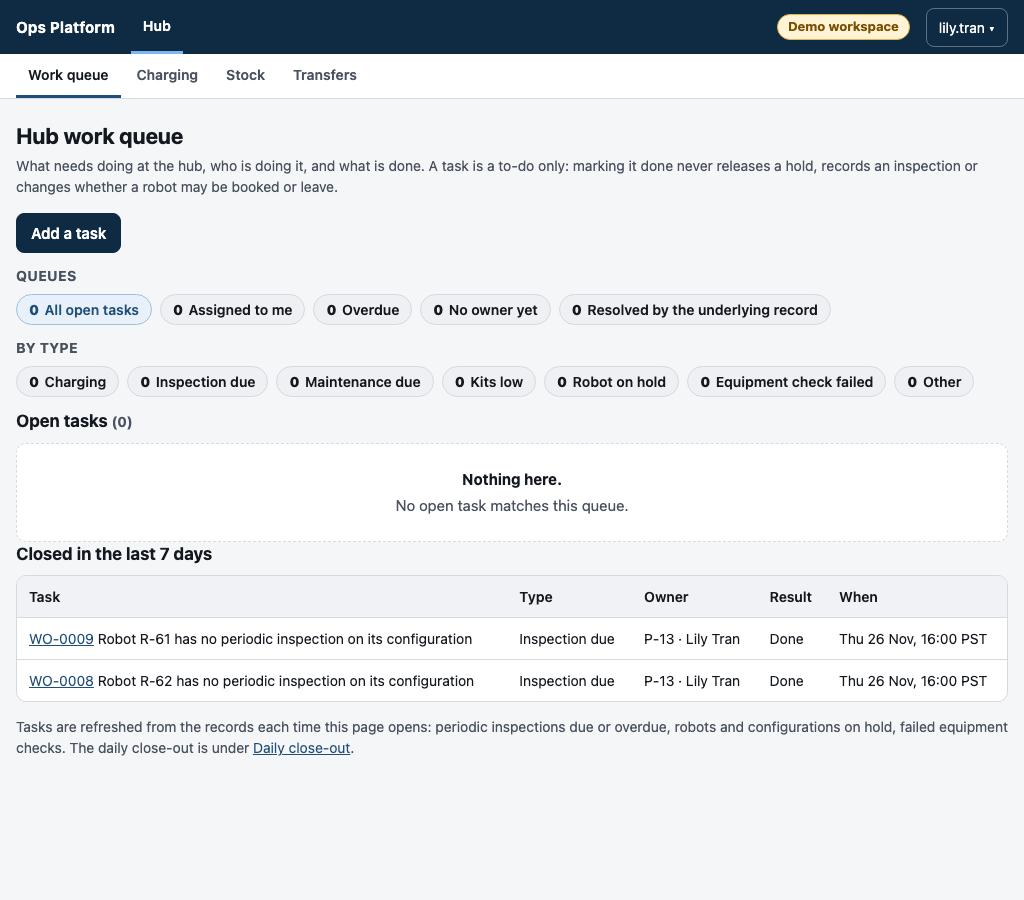
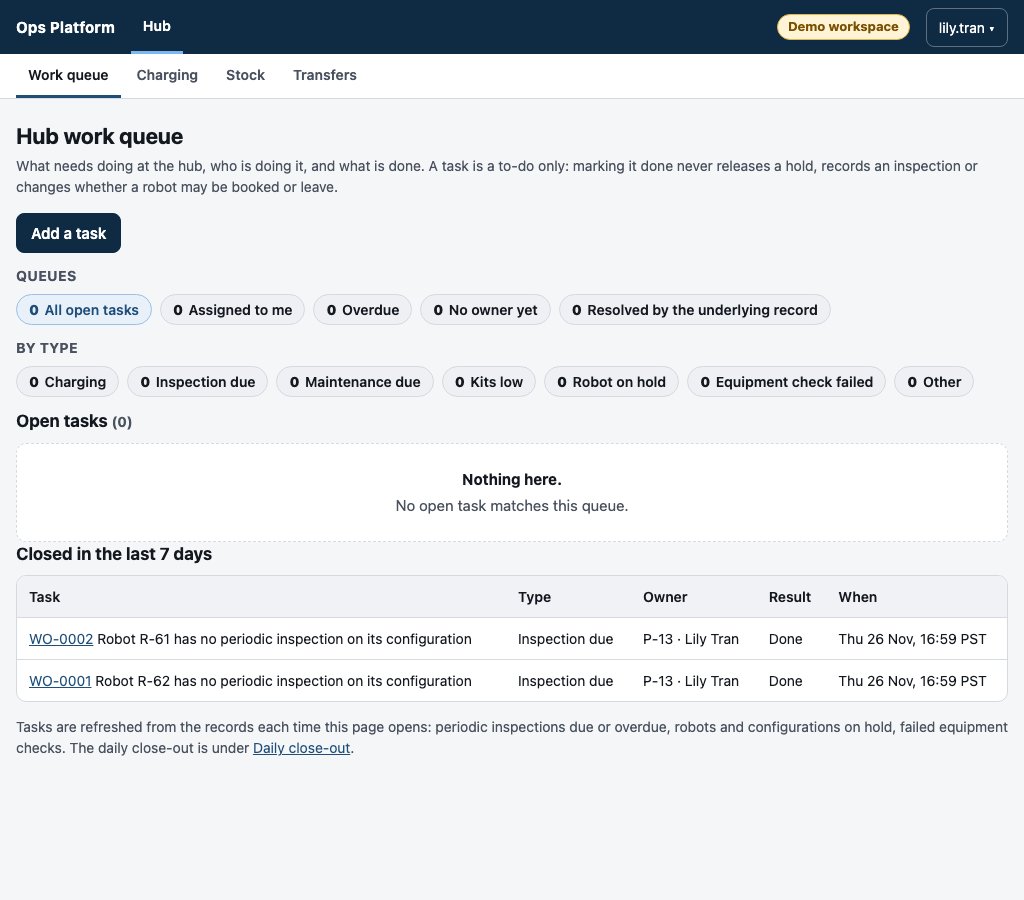
Release docs for v2.0.0: final figures, skip reasons, EM approval, README status

diff --git a/docs/evidence/06_lifecycle.md b/docs/evidence/06_lifecycle.md
@@ -9,9 +9,9 @@ not by independent users. No passwords are used or stored: each browser gets a t
 
 ## Run
 
-- Date: 2026-11-26 16:01 PST
-- Code: branch v2/06-e2e at a0af379 plus the files of the commit that adds this evidence
-- Visit: V-0068 at H-601, 2026-11-26 18:25-19:25 (America/Los_Angeles)
+- Date: 2026-11-26 17:00 PST
+- Code: branch v2/06-e2e at d58f13a plus the files of the commit that adds this evidence
+- Visit: V-0017 at H-601, 2026-11-26 19:25-20:25 (America/Los_Angeles)
 - Browser: Chromium 159.0.8154.6 (Playwright), field crew at 375 px, everyone else at 1024 px
 
 ## Base (before step 1)
@@ -27,21 +27,21 @@ Merritt (LM), assessed eligible, approved, two adults consented.
 
 | # | Step | Who (role, width) | How | Identifiers | Audit rows (id `command`) | Reflected on |
 |---|---|---|---|---|---|---|
-| 1 | Robot commissioning: R-61 registered at Oakland, configuration manifest, validation, in service, home-use authorization (spare R-62 the same way) | Kenji Watanabe (engineering lead, 1024); Sam Keller (engineer, 1024) | UI forms /fleet/new/, /fleet/&lt;code&gt;/manifest/, /lifecycle/ (twice), /authorize/ | robots `R-61` (serial SYN-H2-0601) and `R-62` (SYN-H2-0602), home hub OAK | 4711 `fleet.register_robot`<br>4712 `fleet.record_manifest`<br>4713 `fleet.lifecycle.validation`<br>4714 `fleet.lifecycle.in_service`<br>4715 `fleet.grant_base_authorization`<br>4716 `fleet.register_robot`<br>4717 `fleet.record_manifest`<br>4718 `fleet.lifecycle.validation`<br>4719 `fleet.lifecycle.in_service`<br>4720 `fleet.grant_base_authorization` | Robot page /fleet/R-61/: in service<br>Screenshot `06_lifecycle/01_robot_commissioned_1024.png` |
-| 2 | Hub readiness: the hub queue's inspection work orders; periodic inspection of both robots (two qualified inspectors sign); a battery level for R-61; the work orders closed | Jordan Lee (field operator @OAK, 375); Lily Tran (hub technician @OAK, 1024) | UI /hub/, /readiness/robots/&lt;code&gt;/inspection/, /hub/charging/ (Record a battery level), /hub/tasks/&lt;id&gt;/ (Take this task, Close task) | inspections RC-0258, RC-0259; battery reading 92 % (R-61) | 4721 `hub.derive_task`<br>4722 `hub.derive_task`<br>4723 `fleet.submit_inspection`<br>4724 `fleet.submit_inspection`<br>4725 `hub.record_soc_reading`<br>4726 `hub.assign_task`<br>4727 `hub.start_task`<br>4728 `hub.complete_task`<br>4729 `hub.assign_task`<br>4730 `hub.start_task`<br>4731 `hub.complete_task` | Hub /hub/: the two 'has no periodic inspection' work orders showed 'Resolved by the underlying record' and were closed by the hub technician: '0 All open tasks'<br>Briefing: 'No robot at Oakland hub is unavailable'; R-61 has a battery level, R-62 not<br>Screenshot `06_lifecycle/02_hub_ready_1024.png` |
-| 3 | Visit booking at home H-601, 2026-11-26 18:25-19:25 (America/Los_Angeles) | Dana Ortiz (ops lead, 1024) | UI form /planning/book/ (Request visit) | visit `V-0068` (requested) | 4732 `planning.request_visit` | Board /planning/board/?day=2026-11-26: V-0068 at Oakland, Blocked (no robot, crew or van yet) |
-| 4 | Resource planning: Review options, save the best option (R-61, crew P-11 Jordan Lee + P-12 Amara Okafor, VAN-1), confirm the visit | Dana Ortiz (ops lead, 1024) | UI /planning/visits/V-0068/?review=1 (Save plan), Confirm visit | visit `V-0068` revision id 135, zone LM, travel 20/20 min (matrix DT-LM) | 4733 `planning.plan_visit`<br>4734 `planning.confirm_visit` | Board: V-0068 status available with R-61, Jordan Lee and Amara Okafor, VAN-1<br>Today /ops/: V-0068 robot R-61 listed for today<br>Screenshot `06_lifecycle/04_plan_review_1024.png` |
-| 5 | Departure authorization: pre-departure inspection, equipment and battery checks (crew); recovery plan and Request approval to leave (ops lead) | Jordan Lee (field operator @OAK, 375); Dana Ortiz (ops lead, 1024) | UI forms /readiness/visits/V-0068/inspection/ and /readiness/visits/V-0068/ | pre-departure inspection RC-0260; authorization `DA-0029`, valid until 17:30 | 4735 `fleet.submit_inspection`<br>4736 `readiness.record_evidence`<br>4737 `readiness.record_evidence`<br>4738 `readiness.record_evidence`<br>4739 `readiness.record_recovery_plan`<br>4740 `readiness.authorize_departure` | Today: 'V-0068 ... Approved to leave by dana.ortiz ... valid until ...'<br>Briefing: '1 other visit today has no open problem ... That is not permission to leave.'<br>Screenshot `06_lifecycle/05_approved_to_leave_1024.png` |
-| 6 | Custody transfer: departure recorded (custody #1 hub -> vehicle, administrative), then verified by the crew second | Jordan Lee (crew lead, 375) | UI: My visits, Record departure (readiness page); run page Next step verification (offline queue) | departure event id 26; run `EX-0021`; ledger [('ordinary', 1, 'custody.verify', 'confirmed')] | 4741 `readiness.record_departure`<br>4742 `execution.verify_custody` | Briefing: '1 robot out on a visit' (R-61)<br>Board: V-0068 Departed |
-| 7 | Site arrival, then custody handover vehicle -> site (receiver from the crew) | Jordan Lee (crew lead, 375) | UI run page Next step: arrival (offline queue), handover (online-only form) | run `EX-0021` | 4743 `execution.record_trip_event`<br>4744 `execution.transfer_custody` | Screenshot `06_lifecycle/07_on_site_375.png` |
-| 8 | Site check (Go: 2 adults, both items ok, 2 valid consents) and session start | Jordan Lee (crew lead, 375) | UI run page Next step: site check (offline queue), Start the session (online-only form) | run `EX-0021` | 4745 `execution.record_site_check`<br>4746 `execution.record_session_event` | Phone: connection pill '✓ Up to date'; Next step 'Stop the session when the work is done' |
+| 1 | Robot commissioning: R-61 registered at Oakland, configuration manifest, validation, in service, home-use authorization (spare R-62 the same way) | Kenji Watanabe (engineering lead, 1024); Sam Keller (engineer, 1024) | UI forms /fleet/new/, /fleet/&lt;code&gt;/manifest/, /lifecycle/ (twice), /authorize/ | robots `R-61` (serial SYN-H2-0601) and `R-62` (SYN-H2-0602), home hub OAK | 1271 `fleet.register_robot`<br>1272 `fleet.record_manifest`<br>1273 `fleet.lifecycle.validation`<br>1274 `fleet.lifecycle.in_service`<br>1275 `fleet.grant_base_authorization`<br>1276 `fleet.register_robot`<br>1277 `fleet.record_manifest`<br>1278 `fleet.lifecycle.validation`<br>1279 `fleet.lifecycle.in_service`<br>1280 `fleet.grant_base_authorization` | Robot page /fleet/R-61/: in service<br>Screenshot `06_lifecycle/01_robot_commissioned_1024.png` |
+| 2 | Hub readiness: the hub queue's inspection work orders; periodic inspection of both robots (two qualified inspectors sign); a battery level for R-61; the work orders closed | Jordan Lee (field operator @OAK, 375); Lily Tran (hub technician @OAK, 1024) | UI /hub/, /readiness/robots/&lt;code&gt;/inspection/, /hub/charging/ (Record a battery level), /hub/tasks/&lt;id&gt;/ (Take this task, Close task) | inspections RC-0065, RC-0066; battery reading 92 % (R-61) | 1281 `hub.derive_task`<br>1282 `hub.derive_task`<br>1283 `fleet.submit_inspection`<br>1284 `fleet.submit_inspection`<br>1285 `hub.record_soc_reading`<br>1286 `hub.assign_task`<br>1287 `hub.start_task`<br>1288 `hub.complete_task`<br>1289 `hub.assign_task`<br>1290 `hub.start_task`<br>1291 `hub.complete_task` | Hub /hub/: the two 'has no periodic inspection' work orders showed 'Resolved by the underlying record' and were closed by the hub technician: '0 All open tasks'<br>Briefing: 'No robot at Oakland hub is unavailable'; R-61 has a battery level, R-62 not<br>Screenshot `06_lifecycle/02_hub_ready_1024.png` |
+| 3 | Visit booking at home H-601, 2026-11-26 19:25-20:25 (America/Los_Angeles) | Dana Ortiz (ops lead, 1024) | UI form /planning/book/ (Request visit) | visit `V-0017` (requested) | 1292 `planning.request_visit` | Board /planning/board/?day=2026-11-26: V-0017 at Oakland, Blocked (no robot, crew or van yet) |
+| 4 | Resource planning: Review options, save the best option (R-61, crew P-11 Jordan Lee + P-12 Amara Okafor, VAN-1), confirm the visit | Dana Ortiz (ops lead, 1024) | UI /planning/visits/V-0017/?review=1 (Save plan), Confirm visit | visit `V-0017` revision id 34, zone LM, travel 20/20 min (matrix DT-LM) | 1293 `planning.plan_visit`<br>1294 `planning.confirm_visit` | Board: V-0017 status available with R-61, Jordan Lee and Amara Okafor, VAN-1<br>Today /ops/: V-0017 robot R-61 listed for today<br>Screenshot `06_lifecycle/04_plan_review_1024.png` |
+| 5 | Departure authorization: pre-departure inspection, equipment and battery checks (crew); recovery plan and Request approval to leave (ops lead) | Jordan Lee (field operator @OAK, 375); Dana Ortiz (ops lead, 1024) | UI forms /readiness/visits/V-0017/inspection/ and /readiness/visits/V-0017/ | pre-departure inspection RC-0067; authorization `DA-0017`, valid until 18:29 | 1295 `fleet.submit_inspection`<br>1296 `readiness.record_evidence`<br>1297 `readiness.record_evidence`<br>1298 `readiness.record_evidence`<br>1299 `readiness.record_recovery_plan`<br>1300 `readiness.authorize_departure` | Today: 'V-0017 ... Approved to leave by dana.ortiz ... valid until ...'<br>Briefing: '1 other visit today has no open problem ... That is not permission to leave.'<br>Screenshot `06_lifecycle/05_approved_to_leave_1024.png` |
+| 6 | Custody transfer: departure recorded (custody #1 hub -> vehicle, administrative), then verified by the crew second | Jordan Lee (crew lead, 375) | UI: My visits, Record departure (readiness page); run page Next step verification (offline queue) | departure event id 17; run `EX-0017`; ledger [('ordinary', 1, 'custody.verify', 'confirmed')] | 1301 `readiness.record_departure`<br>1302 `execution.verify_custody` | Briefing: '1 robot out on a visit' (R-61)<br>Board: V-0017 Departed |
+| 7 | Site arrival, then custody handover vehicle -> site (receiver from the crew) | Jordan Lee (crew lead, 375) | UI run page Next step: arrival (offline queue), handover (online-only form) | run `EX-0017` | 1303 `execution.record_trip_event`<br>1304 `execution.transfer_custody` | Screenshot `06_lifecycle/07_on_site_375.png` |
+| 8 | Site check (Go: 2 adults, both items ok, 2 valid consents) and session start | Jordan Lee (crew lead, 375) | UI run page Next step: site check (offline queue), Start the session (online-only form) | run `EX-0017` | 1305 `execution.record_site_check`<br>1306 `execution.record_session_event` | Phone: connection pill '✓ Up to date'; Next step 'Stop the session when the work is done' |
 | 9 | Network loss (context.set_offline): an observation note (ordinary) and an interruption (protective) recorded on the phone | Jordan Lee (crew lead, 375) | UI offline: session form (Observation), Open interruption | 2 steps saved on the phone (IndexedDB), none on the server | none (nothing reached the server) | Phone: pill '○ Offline'; banner 'Robot must not operate ... saved on this phone, not yet confirmed'<br>Server: no interruption, no ledger row, no audit row while offline<br>Screenshot `06_lifecycle/09_offline_protective_saved_375.png` |
-| 10 | Reconnection: the phone's sync sends the protective step first; the server confirms each step once, in order (queue reconciled); the session is paused by the interruption | Jordan Lee (crew lead, 375) | UI: the run page's own sync on reconnect (POST /api/field/sync) | interruption `IN-0014`; ledger [('protective', None, 'interruption.open', 'confirmed'), ('ordinary', 4, 'session.observation', 'confirmed')] | 4747 `execution.open_interruption`<br>4748 `execution.record_session_event` | Phone: banner 'confirmed by the server ... stays stopped'; first sync batch starts protective<br>Phone: Next step 'Resume or stop the session'<br>Today: 'A visit session was interrupted and is still stopped.' (Resolve the interruption)<br>Briefing: R-61 'Unresolved interruption ... must not operate'; priority 'Review the unresolved interruption on robot R-61.'<br>Run page (ops lead): interruption IN-0014 Open<br>Screenshot `06_lifecycle/10_reconnected_paused_375.png` |
-| 11 | Triage: interruption IN-0014 resolved with a note (resolving does not resume the session) | Elena Vasquez (safety reviewer, 1024) | UI run page /execution/runs/EX-0021/, Interruptions card (Resolve) | interruption `IN-0014` | 4749 `execution.resolve_interruption` | Briefing: no unresolved interruption; R-61 out on a visit again<br>Today: the interruption card is gone<br>Screenshot `06_lifecycle/11_interruption_resolved_1024.png` |
-| 12 | Return: session stopped, robot back in the vehicle, left the home, back at the hub, robot received at the hub (custody #4 vehicle -> hub) | Jordan Lee (crew lead, 375) | UI run page Next step: stop, back to vehicle, trip events (offline queue); hub receipt (online form) | run `EX-0021`; ledger [('protective', None, 'session.stop', 'confirmed'), ('ordinary', 5, 'custody.back_to_vehicle', 'confirmed'), ('ordinary', 6, 'trip.departed_site', 'confirmed'), ('ordinary', 7, 'trip.arrived_hub', 'confirmed')] | 4750 `execution.record_session_event`<br>4751 `execution.transfer_custody`<br>4752 `execution.record_trip_event`<br>4753 `execution.record_trip_event`<br>4754 `execution.transfer_custody` |  |
-| 13 | Post-visit inspection (after the hub receipt) | Jordan Lee (crew lead, 375) | UI form /readiness/visits/V-0068/inspection/ | inspection RC-0261 | 4755 `fleet.submit_inspection` | Phone: Next step 'Reconcile the return' (the ops lead's step)<br>Screenshot `06_lifecycle/13_returned_inspected_375.png` |
-| 14 | Closeout: return reconciliation with the post-visit inspection (reconciled), Close trip | Dana Ortiz (ops lead, 1024) | UI run page /execution/runs/EX-0021/ (Record return reconciliation, Close trip) | run `EX-0021` closed | 4756 `execution.reconcile_return`<br>4757 `execution.close_trip` | Run page: 'Next step: Nothing left to record'<br>Visit dossier: plan r2, evidence, the authorization (local expiry), departure, custody #1-#4 with verification, site check, session, IN-0014 + resolution, return, reconciliation, closed<br>Today: V-0068 no longer open; fleet 2 available, 0 out<br>Screenshot `06_lifecycle/14_trip_closed_1024.png` |
-| 15 | Inter-hub transfer: R-61 refused (its booking has not ended); spare R-62 sent from Oakland and received at South Bay | Lily Tran (hub technician @OAK, 1024); Nora Castillo (hub technician @SJC, 1024) | UI /hub/transfers/ (Send; Receive at SJC) | transfer `TR-0007` (in transit -> received); R-62 home hub SJC | 4758 `fleet.transfer_start`<br>4759 `fleet.start_transfer`<br>4760 `fleet.transfer_receive`<br>4761 `fleet.receive_transfer` | Transfers page (Lily): 'Refused (conflict) Robot R-61 cannot move to hub SJC: it is booked for visit V-0068 until ...'<br>Briefing (all hubs): South Bay hub has 1 robot (R-62, no battery level yet)<br>Audit log /api/audit-events (ops lead): all 51 audit rows of steps 1-15, same commands<br>Screenshot `06_lifecycle/15_transfer_received_1024.png` |
+| 10 | Reconnection: the phone's sync sends the protective step first; the server confirms each step once, in order (queue reconciled); the session is paused by the interruption | Jordan Lee (crew lead, 375) | UI: the run page's own sync on reconnect (POST /api/field/sync) | interruption `IN-0003`; ledger [('protective', None, 'interruption.open', 'confirmed'), ('ordinary', 4, 'session.observation', 'confirmed')] | 1307 `execution.open_interruption`<br>1308 `execution.record_session_event` | Phone: banner 'confirmed by the server ... stays stopped'; first sync batch starts protective<br>Phone: Next step 'Resume or stop the session'<br>Today: 'A visit session was interrupted and is still stopped.' (Resolve the interruption)<br>Briefing: R-61 'Unresolved interruption ... must not operate'; priority 'Review the unresolved interruption on robot R-61.'<br>Run page (ops lead): interruption IN-0003 Open<br>Screenshot `06_lifecycle/10_reconnected_paused_375.png` |
+| 11 | Triage: interruption IN-0003 resolved with a note (resolving does not resume the session) | Elena Vasquez (safety reviewer, 1024) | UI run page /execution/runs/EX-0017/, Interruptions card (Resolve) | interruption `IN-0003` | 1309 `execution.resolve_interruption` | Briefing: no unresolved interruption; R-61 out on a visit again<br>Today: the interruption card is gone<br>Screenshot `06_lifecycle/11_interruption_resolved_1024.png` |
+| 12 | Return: session stopped, robot back in the vehicle, left the home, back at the hub, robot received at the hub (custody #4 vehicle -> hub) | Jordan Lee (crew lead, 375) | UI run page Next step: stop, back to vehicle, trip events (offline queue); hub receipt (online form) | run `EX-0017`; ledger [('protective', None, 'session.stop', 'confirmed'), ('ordinary', 5, 'custody.back_to_vehicle', 'confirmed'), ('ordinary', 6, 'trip.departed_site', 'confirmed'), ('ordinary', 7, 'trip.arrived_hub', 'confirmed')] | 1310 `execution.record_session_event`<br>1311 `execution.transfer_custody`<br>1312 `execution.record_trip_event`<br>1313 `execution.record_trip_event`<br>1314 `execution.transfer_custody` |  |
+| 13 | Post-visit inspection (after the hub receipt) | Jordan Lee (crew lead, 375) | UI form /readiness/visits/V-0017/inspection/ | inspection RC-0068 | 1315 `fleet.submit_inspection` | Phone: Next step 'Reconcile the return' (the ops lead's step)<br>Screenshot `06_lifecycle/13_returned_inspected_375.png` |
+| 14 | Closeout: return reconciliation with the post-visit inspection (reconciled), Close trip | Dana Ortiz (ops lead, 1024) | UI run page /execution/runs/EX-0017/ (Record return reconciliation, Close trip) | run `EX-0017` closed | 1316 `execution.reconcile_return`<br>1317 `execution.close_trip` | Run page: 'Next step: Nothing left to record'<br>Visit dossier: plan r2, evidence, the authorization (local expiry), departure, custody #1-#4 with verification, site check, session, IN-0003 + resolution, return, reconciliation, closed<br>Today: V-0017 no longer open; fleet 2 available, 0 out<br>Screenshot `06_lifecycle/14_trip_closed_1024.png` |
+| 15 | Inter-hub transfer: R-61 refused (its booking has not ended); spare R-62 sent from Oakland and received at South Bay | Lily Tran (hub technician @OAK, 1024); Nora Castillo (hub technician @SJC, 1024) | UI /hub/transfers/ (Send; Receive at SJC) | transfer `TR-0001` (in transit -> received); R-62 home hub SJC | 1318 `fleet.transfer_start`<br>1319 `fleet.start_transfer`<br>1320 `fleet.transfer_receive`<br>1321 `fleet.receive_transfer` | Transfers page (Lily): 'Refused (conflict) Robot R-61 cannot move to hub SJC: it is booked for visit V-0017 until ...'<br>Briefing (all hubs): South Bay hub has 1 robot (R-62, no battery level yet)<br>Audit log /api/audit-events (ops lead): all 51 audit rows of steps 1-15, same commands<br>Screenshot `06_lifecycle/15_transfer_received_1024.png` |
 
 ## Notes
 

diff --git a/docs/release_notes_v2.md b/docs/release_notes_v2.md
@@ -1,7 +1,7 @@
 # Release notes: Fleet Operations Platform v2
 
-**DRAFT: not approved for release.** This document becomes final only after the EM's v2 release approval. Until
-then it authorizes nothing, and the numbers marked `FINAL_CI` are placeholders.
+**v2.0.0, approved for release by the EM on 2026-11-26** (validated application SHA `d58f13a`). This approval covers a
+synthetic robotics operations platform; it is not certification for real-world robot operation.
 
 All data in this project is fictional. No value in the product or the demo is a real robot specification,
 maintenance interval, travel time, price or safety approval. Nothing has been used with real robots, real homes or
@@ -20,11 +20,15 @@ server has not checked.
 
 | | |
 |---|---|
-| Candidate | `FINAL_CI` (commit to be filled in at release) |
+| Version | v2.0.0 |
+| Validated application SHA | `d58f13a` (later commits are documentation only) |
 | Demo | https://web-phase02rc.up.railway.app is the Phase 02 release. The demo link will be updated at release. |
-| Full CI | Latest full run on `v2/phase03`: **2,533 passed** at `81f9d9c`, with one browser-test setup error, since fixed (`3fa3a18`). Final: `FINAL_CI` passed, `FINAL_CI` failed. |
-| Verified synthetic scale | 500 robots, 5 hubs, 5,000 visits (Phase 05, three CI rounds within budget) |
-| Integrated acceptance (contract 15.11, Phase 06) | Pending at the time of writing |
+| Full CI | Run 45920094281 at `d58f13a`: **2,566 passed, 20 skipped, 0 failed** (skips explained below) |
+| Verified synthetic scale | 500 robots, 5 hubs, 5,001 visits; three performance rounds at `d58f13a`, all within budget (45920137597, 45920148983, 45920287628) |
+| Integrated acceptance (Phase 06) | 16/16 gates (15 with evidence + EM release approval); 15-step real-browser lifecycle; `docs/evidence/06_integrated_acceptance.md` |
+| Known unresolved critical/high defects | 0 |
+| Independent operator usability | Unverified |
+| Real-robot deployment | Not validated |
 
 ## What each phase added
 
@@ -131,7 +135,19 @@ not a load test with many users, and not a measurement on hosted infrastructure.
 | 03B closure, `5449acd` | 2,282 passed |
 | 03C closure, `e24c713` | 2,417 passed |
 | Latest full CI on `v2/phase03`, `81f9d9c` | 2,533 passed, one browser-test setup error (fixed in `3fa3a18`) |
-| Release candidate | `FINAL_CI` |
+| Release candidate `d58f13a` (run 45920094281) | 2,566 passed, 20 skipped, 0 failed |
+
+**Why 20 tests are skipped in the main CI job** (none is an unexecuted acceptance gate):
+
+| Count | Tests | Reason | Where they run |
+|---|---|---|---|
+| 9 | `test_operations_perf.py` p95 budgets | marked `perf` | `perf.yml`, three rounds at `d58f13a` |
+| 1 | `test_v2_05_scale.py` 500-robot p95 | marked `perf` | `perf.yml`, three rounds at `d58f13a` |
+| 1 | `test_v2_03b_readiness_perf_repeat.py` | marked `perf`; 03B repeat measurement | run for 03B evidence (`03b_readiness_perf.md`); readiness is also measured in both `perf.yml` suites |
+| 5 | `test_capacity_workbook.py` LibreOffice checks | need LibreOffice | the separate `xlsx` CI job (installs LibreOffice), success |
+| 1 | `test_v2_03d_design_review.py` | screenshot generator, only with `HOP_03D_SHOTS=1` | run to produce `docs/evidence/03d_design_review/` |
+| 2 | `test_operations_ui.py` | parametrized roles for which metrics is 403, asserted by the test above them | n/a (covered) |
+| 1 | `test_s7_ui.py` | legacy guard for a build without `withdraw_hold_policy` | n/a (the function exists) |
 
 The suite runs against a real PostgreSQL 16. It includes direct-SQL bypass attempts as the restricted runtime role,
 concurrency tests in both orders with the waiting transaction observed in `pg_locks`, failure injection on the sync
@@ -210,5 +226,6 @@ endpoint, and real-browser tests of the offline screen with the network cut.
 Every v2 migration is additive and reversible. Before migrating any database, take a backup and rehearse the
 restore, then deploy; `start.sh` runs the migrations before the app serves. New gates (maintenance, stock, zones
 and travel times) do nothing until the owner provisions them. Order of work, activation and rollback:
-`docs/12_v2_phase02_release.md` and `docs/runbook_deploy_backup_rollback.md`. The Phase 03 to 05 upgrade
-rehearsal is part of the integrated acceptance and is pending.
+`docs/12_v2_phase02_release.md` and `docs/runbook_deploy_backup_rollback.md`. The upgrade from
+`v2-phase02-release` was rehearsed in Phase 06 (34 migrations, data counts and fingerprints equal, reverse and
+forward again; backup and restore checked): `docs/evidence/06_install_upgrade_backup.md`.

diff --git a/docs/evidence/06_integrated_acceptance.md b/docs/evidence/06_integrated_acceptance.md
@@ -32,7 +32,7 @@ This package asks the EM for final release approval; until then no `v2.0.0` tag 
 | 13 | Documentation and walkthrough match the implementation | PASS | walkthrough run end to end in a real browser: 94 claims checked, 92 matched, 9 statements corrected; README setup verified; architecture counts checked against the catalog (44 definer functions, 96 tables with triggers, 21 app read-only tables) |
 | 14 | No unresolved critical or high-severity defects | PASS | defect log below |
 | 15 | Known limitations documented | PASS | below and `docs/release_notes_v2.md` |
-| 16 | Final release approval | PENDING (EM) | |
+| 16 | Final release approval | APPROVED (EM, 2026-11-26) | EM ruling below |
 
 ## Performance at the candidate (p95 ms, 500 robots / 5 hubs / 5,001 visits)
 
@@ -91,3 +91,11 @@ this candidate, no critical or high defect is open, and the limitations are docu
 all-hubs Operations briefing p95 is within 1% of its 2 s budget at 500 robots; if the EM wants margin before
 release, the next step is a single targeted change (cache the per-hub board read within the request), measured
 again in three rounds.
+
+## EM ruling (2026-11-26)
+APPROVED `d58f13a` as the v2.0.0 release candidate; Phase 06 closed; Phase 07 release execution authorized subject to
+the hosted rehearsal and rollback checks. The all-hubs briefing margin (18 ms in its slowest round) is accepted as a
+documented watch item, not a blocker; the per-hub board-read reuse is the first performance follow-up for v2.1 if
+later measurements justify it. Release order: finalize docs -> freeze (only documentation after `d58f13a`) -> isolated
+hosted rehearsal + rollback -> merge into `main` + CI -> annotated tag `v2.0.0` -> public v2 demo on `phase02rc` + hosted
+checks -> `docs/evidence/07_release_closure.md`. The approval does not certify real-world robot operation.

diff --git a/README.md b/README.md
@@ -6,7 +6,7 @@ who run the fleet decide what can go out today, record what actually happened, a
 It **records and coordinates operations. It does not control robots**, implement emergency stops, or certify
 physical safety. Every company, person, robot, home and value in this repository and in the demo is **fictional**.
 
-**Status:** v2 release candidate (Phases 00 to 05). It has been checked by its development team only. It has **not**
+**Status:** v2.0.0, approved for release on 2026-11-26 (Phases 00 to 07; validated application SHA `d58f13a`). It has been checked by its development team only. It has **not**
 been used with real robots, real homes or real crews, and **usability with independent people is UNVERIFIED**. See
 [Project status and limitations](#project-status-and-limitations).
 
@@ -162,7 +162,7 @@ Markers: `browser` (Playwright and Chromium), `perf` (time budgets, skipped unle
 - [Architecture](docs/architecture.md): layers, database enforcement, the command boundary, hubs, lock order, the
   offline protocol, performance, deployment.
 - [Demo walkthrough](docs/demo_walkthrough.md): a guided scenario, role by role.
-- [Release notes v2 (DRAFT)](docs/release_notes_v2.md): what each phase added, verified scale, known limitations.
+- [Release notes v2.0.0](docs/release_notes_v2.md): what each phase added, verified scale, known limitations.
 - [Runbook](docs/runbook_deploy_backup_rollback.md): deploy, health check, backup, restore, rollback, demo refresh.
 - Contracts: `docs/09_v2_phase00_contract.md` to `docs/13_v2_phase03_contract.md`. Evidence: `docs/evidence/`.
 
